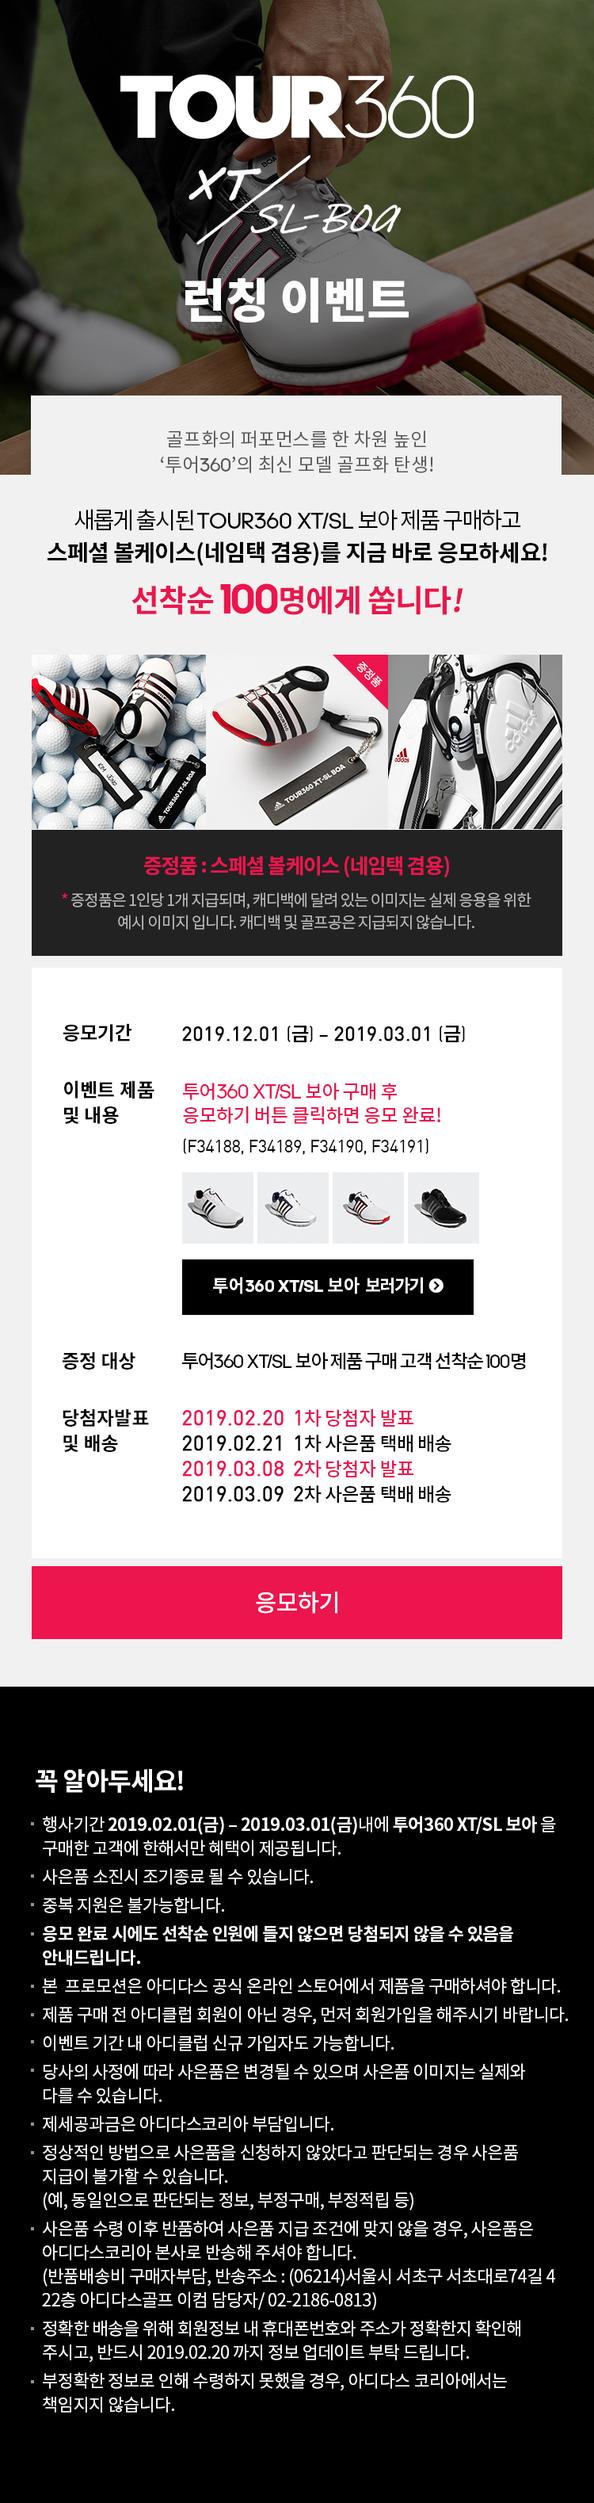
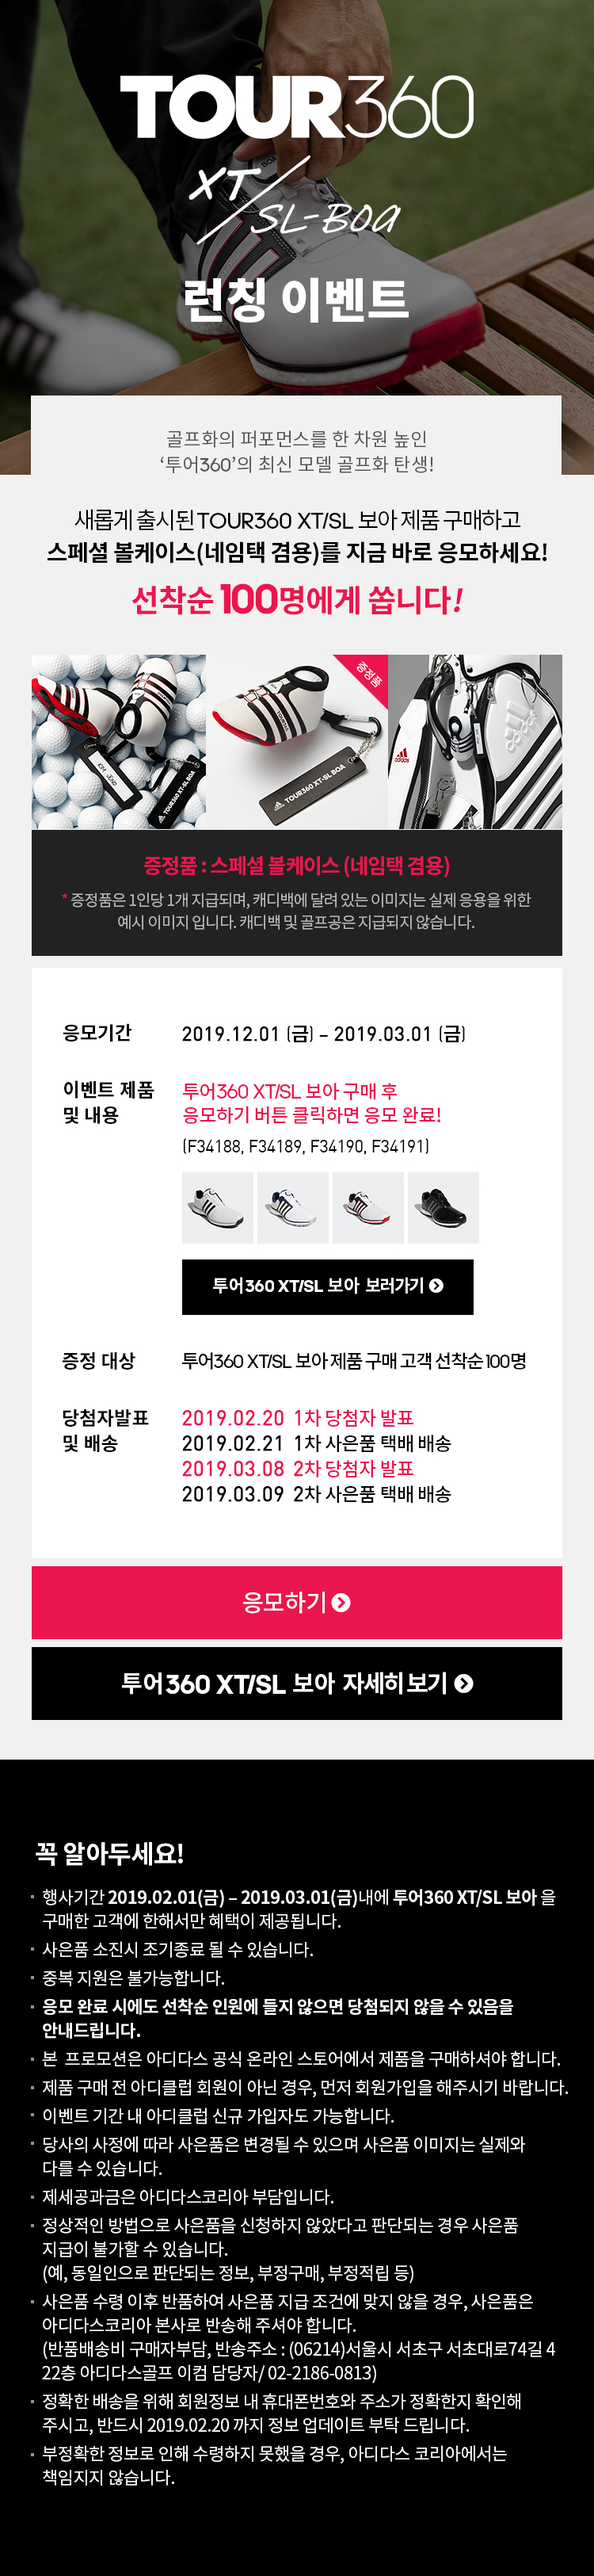
-

Changed region(s): [[0.0, 0.031, 1.0, 0.962]]

diff --git a/mobile/html/adidas/2019/campaign/190201/index.html b/mobile/html/adidas/2019/campaign/190201/index.html
@@ -447,8 +447,9 @@
                <!-- 작업영역 -->
                <div style="position:relative" class="adiclub_event">
                    <img src="http://imagem.adidas.co.kr/upload/campaign/adidas/190201/m/190201_TOUR360-XT-SL-BOA-EVENT_MO.jpg" alt="" style="width:100%;">                   
-                   <a onfocus="this.blur();" href="http://m.adidas.co.kr/MO/Promotion/landingPage.action?NFN_ST=Y&pageNo=774" style="display: inline-block;position: absolute;top: 50.3%;left:030%;width: 50%;height: 2.2%;text-indent: -5000px;" target="_blank">투어 360 XT/SL 보아 보러가기</a>
-                   <a onfocus="this.blur();" href="javascript:void(0)" style="display: inline-block;position: absolute;top: 62.5%;left:0;width: 100%;height: 3%;text-indent: -5000px;" target="_blank">응모하기</a>
+                   <a onfocus="this.blur();" href="http://m.adidas.co.kr/MO/Promotion/landingPage.action?NFN_ST=Y&pageNo=774" style="display: inline-block;position: absolute;top: 49%;left:030%;width: 50%;height: 2.2%;text-indent: -5000px;" target="_blank">투어 360 XT/SL 보아 보러가기</a>
+                   <a onfocus="this.blur();" href="javascript:void(0)" style="display: inline-block;position: absolute;top: 60.8%;left:0;width: 100%;height: 3%;text-indent: -5000px;" target="_blank">응모하기</a>
+                   <a onfocus="this.blur();" href="http://m.adidas.co.kr/MO/Event/evtNotice.action?pn=tour360xtslboa" style="display: inline-block;position: absolute;top: 63.8%;left:0;width: 100%;height: 3%;text-indent: -5000px;" target="_blank">투어 360 XT/SL 자세히보기</a>
                </div>
                <!-- 작업영역 끝 -->
 
